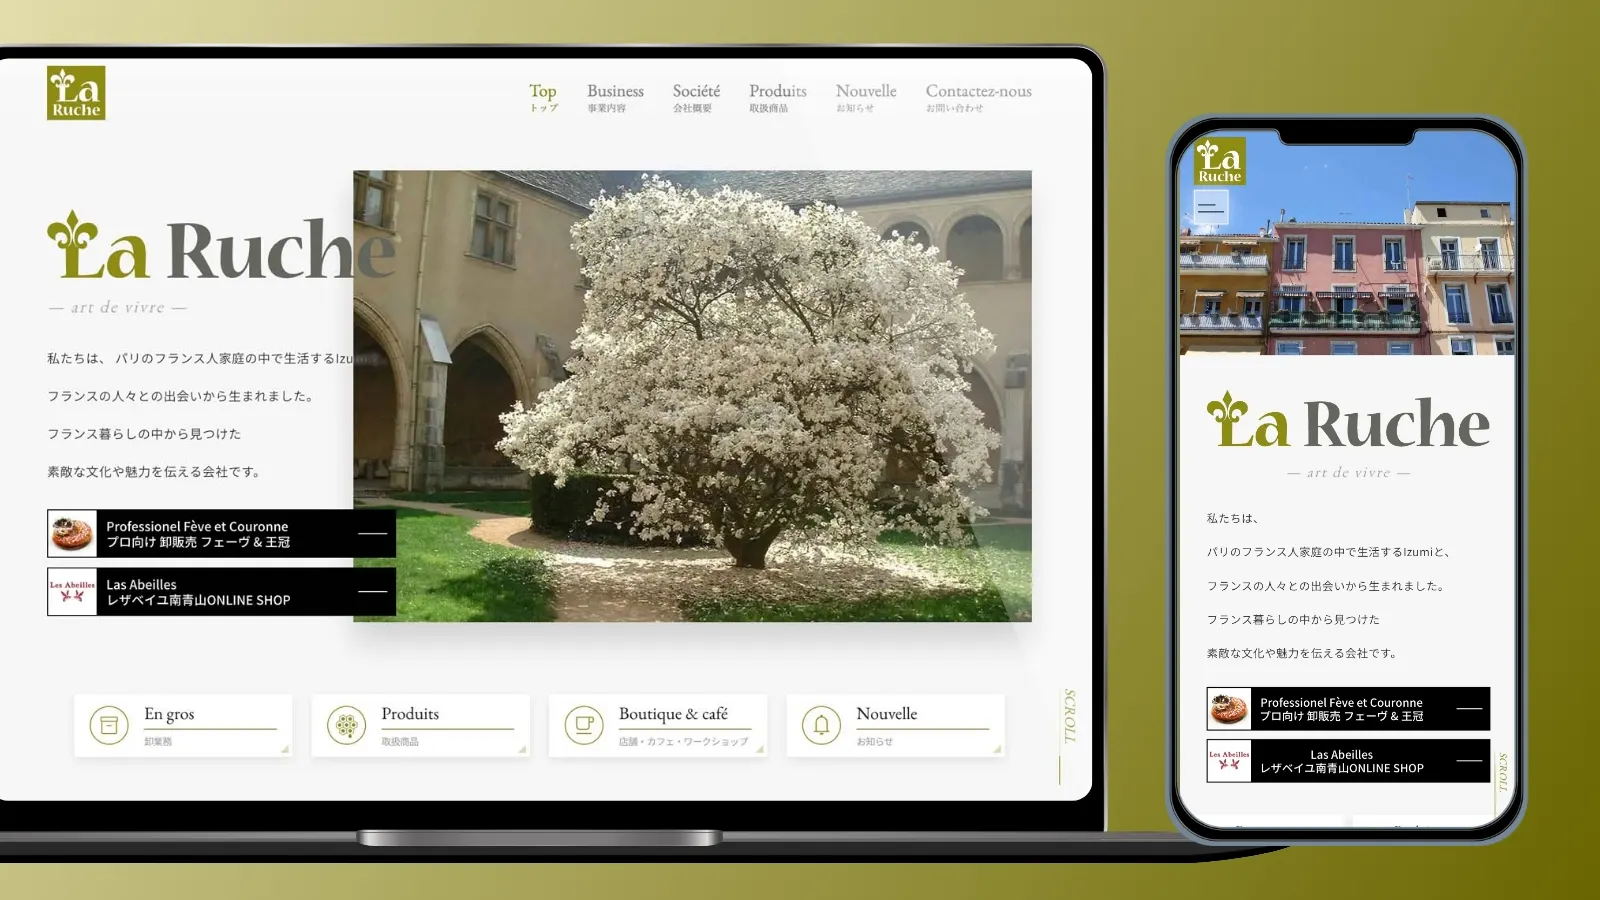
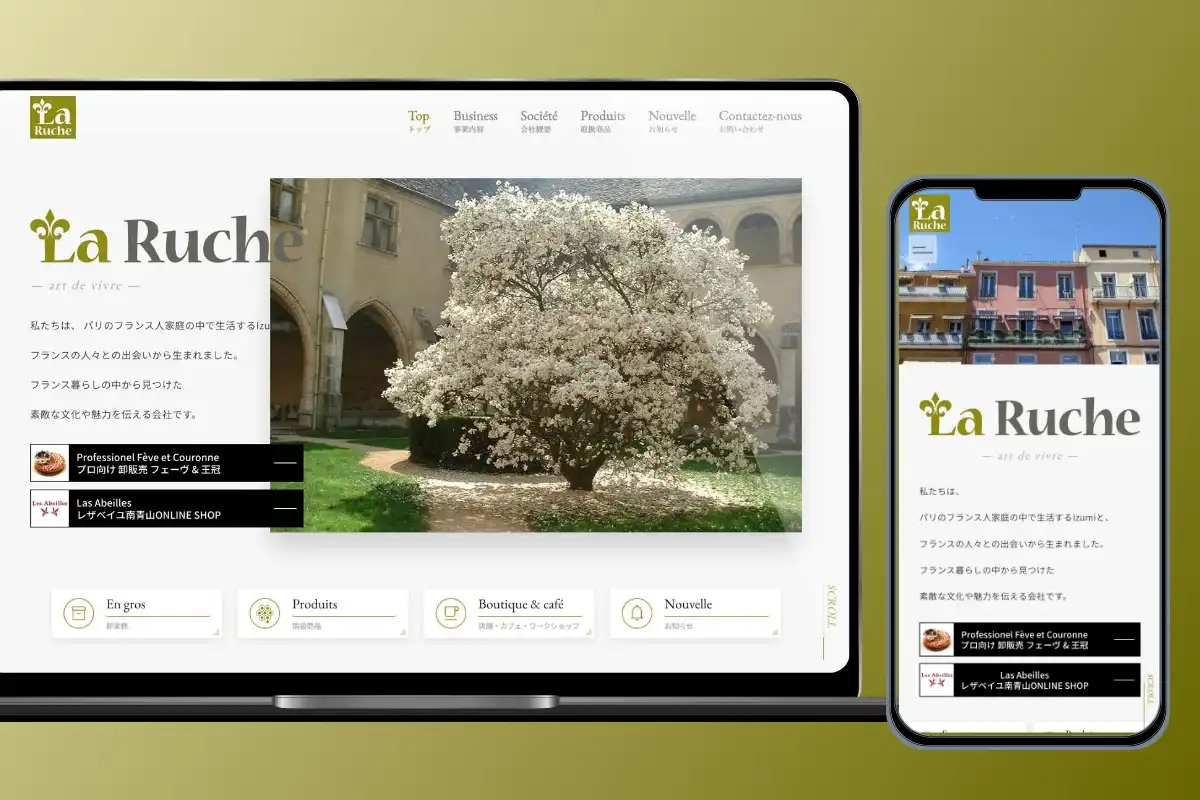
[fix]画像差し替え、CSS調整

diff --git a/pages/works/[id].js b/pages/works/[id].js
@@ -18,14 +18,14 @@ export default function Works({ postData }) {
     <Layout>
       <Head>
         <title>{postData.title}</title>
-        <link rel="canonical" href="" />
+        <link rel="canonical" href="https://mitsumeru-design.vercel.app/works/yukinko" />
       </Head>
       <div className={styles.heading}>
         <Image 
         priority className={styles.heading__img} src={postData.image1} height={900} width={1600} alt={`${postData.title} ${"のイメージ1"}`}
         />
       </div>
-      <div className={styles.p_page_content}>
+      <div className={styles.p_page_content} id="top">
         <div className="l-container">
           <div className={styles.p_works}>
             <div className={styles.p_works__head}>
@@ -41,10 +41,10 @@ export default function Works({ postData }) {
                 <Link href={postData.link} className='c-btn__text' target='_blank' rel='noreferrer'>関連リンク</Link>
               </div>
               <div className='u-mt32' dangerouslySetInnerHTML={{ __html: postData.contentHtml }} />
-              <div className='u-align center u-mt80'>
-                <Link href={postData.previous} className='c-btn--dark sm'>前へ</Link>
+              <div className={`${styles.p_works__bottom} ${"u-align center u-mt80"}`}>
+                <Link href={`${postData.previous}${"#top"}`} className='c-btn--dark sm'>前へ</Link>
                 <Link href="/works" className='c-btn__line sm'>Works一覧へ</Link>
-                <Link href={postData.next} className='c-btn--dark sm'>次へ</Link>
+                <Link href={`${postData.next}${"#top"}`} className='c-btn--dark sm'>次へ</Link>
               </div>
             </div>
             <div container spacing={3} className={`${styles.p_works__body} ${postData.category}`}>
@@ -58,7 +58,7 @@ export default function Works({ postData }) {
                   </picture>
                   <picture className='l-grid--item'>
                     <Image 
-                    priority className={styles.p_works__img} src={postData.image2} height={300} width={400} alt={`${postData.title} ${"のイメージ"}`}
+                    priority className={styles.p_works__img} src={postData.image2} height={300} width={400} alt={`${postData.title} ${"のイメージ2"}`}
                     />
                   </picture>
                   <picture className='l-grid--item'>

diff --git a/styles/pages/works.module.scss b/styles/pages/works.module.scss
@@ -60,10 +60,10 @@
     &:after{
       content: '';
       background-color: #e9ff00;
-      height: 45%;
+      height: 35%;
       width: 0%;
       position:absolute;
-      bottom:0;
+      bottom:.25rem;
       left:-0.5rem;
       display:block;
       animation-name: works_h1;
@@ -80,6 +80,22 @@
       position:sticky;
       top:60px;
       max-height: calc(100dvh - 60px);
+    }
+    ul{
+      margin-block-start: 1rem;
+      &:before{
+        content:'作業範囲';
+        font-weight: 700;
+        font-size: .875rem;
+      }
+    }
+    li{
+      &:before{
+        content: '●';
+        font-weight: 700;
+        font-size: .875rem;
+        color: var(--secondary);
+      }
     }
   }
   &__body{
@@ -138,6 +154,21 @@
     @include breakpoints (md){
       margin-block-start: 5rem;
       padding-inline-start: 4rem;
+    }
+  }
+  &__bottom{
+    position:fixed;
+    left:0;
+    bottom:0;
+    width: 100%;
+    z-index: 2;
+    background-color: #fff;
+    padding-block: .5rem;
+    @include breakpoints (sm){
+      position:static;
+      left:inherit;
+      bottom:inherit;
+      background-color: transparent;
     }
   }
 }

diff --git a/next.config.js b/next.config.js
@@ -3,6 +3,9 @@ module.exports = {
   sassOptions: {
     includePaths: [path.join(__dirname, 'layoutStyles')],
     includePaths: [path.join(__dirname, 'styles')],
+    experimental: {
+      scrollRestoration: false,
+    },
   },
   // リダイレクト
   async redirects() {
@@ -10,7 +13,7 @@ module.exports = {
       {
         source: '/redirect',
         destination: '/',
-        permanent: true, 
+        permanent: false, 
       },
     ];
   },

diff --git a/styles/layouts/footer.module.scss b/styles/layouts/footer.module.scss
@@ -2,7 +2,7 @@
 .l_footer{
   grid-area:footer;
   margin-block-start: 3rem;
-  padding: 0 .5rem .5rem;
+  padding: .5rem .5rem 3rem;
   box-shadow: 0px -0.5rem 1rem rgba(103, 0, 123, 0.15);
   @include breakpoints (sm){
     padding: 1rem;

diff --git a/styles/pages/page.module.scss b/styles/pages/page.module.scss
@@ -93,7 +93,7 @@
     position:relative;
     picture{
       display: block;
-      aspect-ratio: 1;
+      aspect-ratio: 16/9;
       width: 100%;
       position:relative;
       overflow: hidden;

diff --git a/styles/pages/home.module.scss b/styles/pages/home.module.scss
@@ -193,7 +193,7 @@
     }
     picture{
       display: block;
-      aspect-ratio: 1;
+      aspect-ratio: 16/9;
       width: 100%;
       position:relative;
       overflow: hidden;

diff --git a/works/laruche.md b/works/laruche.md
@@ -13,8 +13,8 @@ title: '株式会社LaRuche様'
 date: '2024-08-09'
 tag_1: 'UIUXデザイン'
 tag_2: 'フロントエンド実装'
-previous: '/works/metroengines'
-next: '/works/knowhows'
+previous: '/works/knowhows'
+next: '/works/metroengines'
 ---
 
 勤務内実績。株式会社LaRuche様の**ホームページ制作**を行いました。
